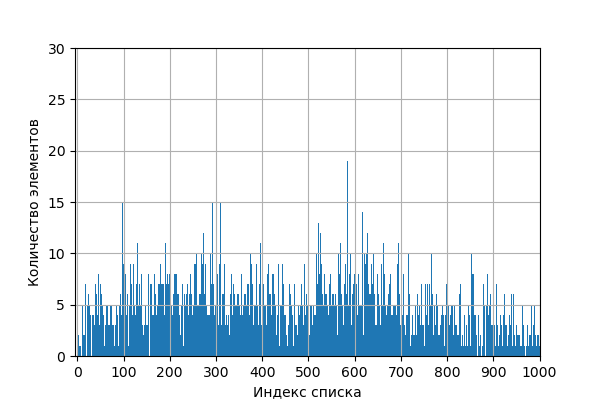
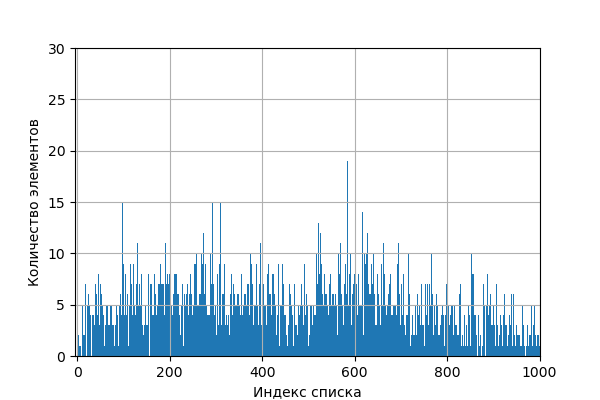
Update readme

diff --git a/src/make_bar.py b/src/make_bar.py
@@ -17,7 +17,7 @@ def DrawBar( file_name, x_size, y_size ):
 
     plt.xlim  ( -5, x_size )
     plt.ylim  (  0, y_size )
-    plt.xticks( [i for i in range( 0, x_size + 1, 100 )] )
+    #plt.xticks( [i for i in range( 0, x_size + 1, 100 )] )
     plt.xlabel( "Индекс списка" )
     plt.ylabel( "Количество элементов" )
 

diff --git a/README.md b/README.md
@@ -102,6 +102,16 @@ size_t GetSumAsciiHash( Elem_t elem )
 
 > Дисперсия = 34
 
+<details>
+<summary> Диаграмма при большем размере хеш-таблицы </summary>
+
+Также стоить рассмотреть данную хеш-функцию, при достаточно большом размере таблицы (5000 элементов). 
+
+<p style="text-align: center"><img src=res/bar_sum_ascii_5000.png width="550px"/></p>
+
+Из диаграммы видно, что начиная с 1500 элемента таблица пустая. Она нам лишь показалась хорошей, но стоит нам увеличить количество данных, как эффективность функции теряется. 
+
+</details>
 ___
 
 ### 5. ROL hash
